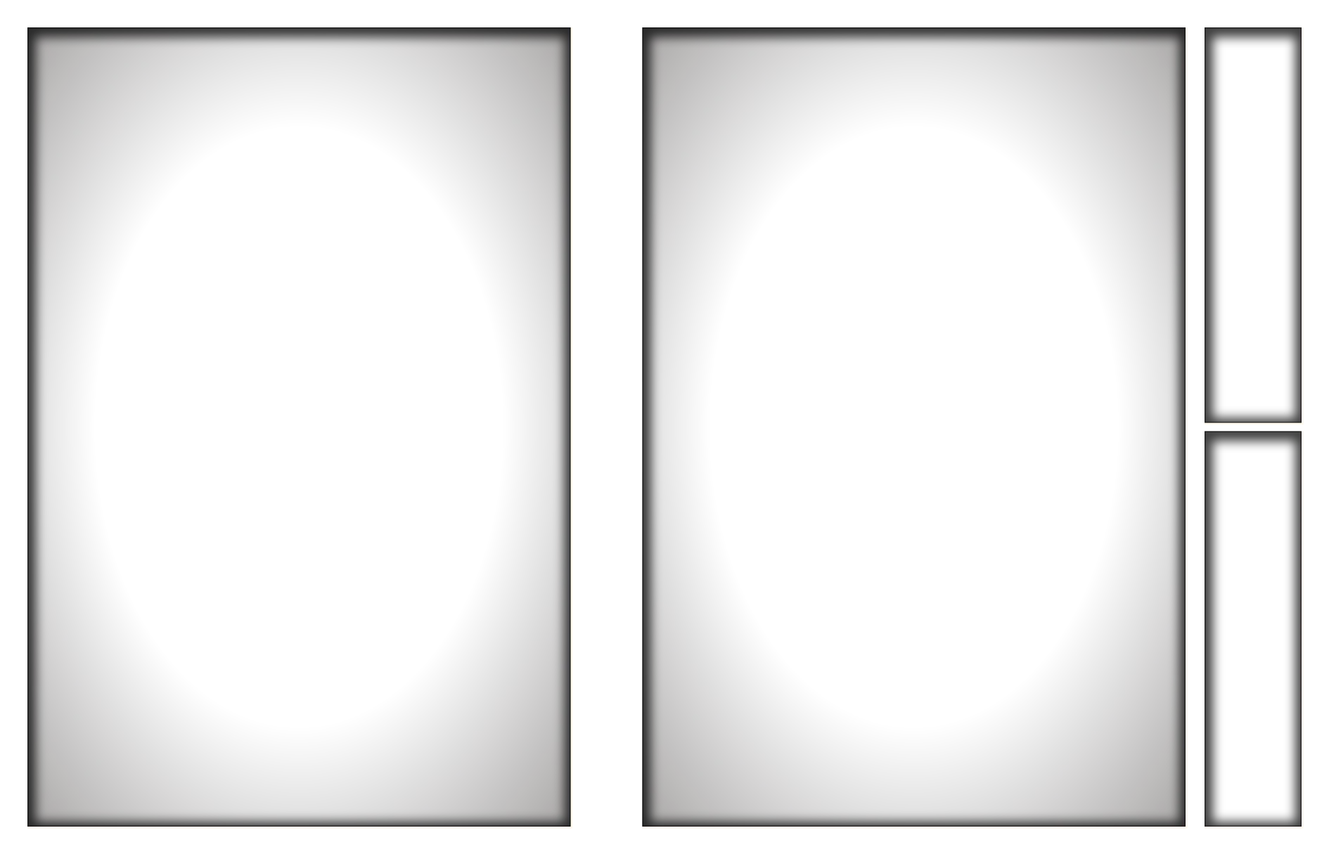
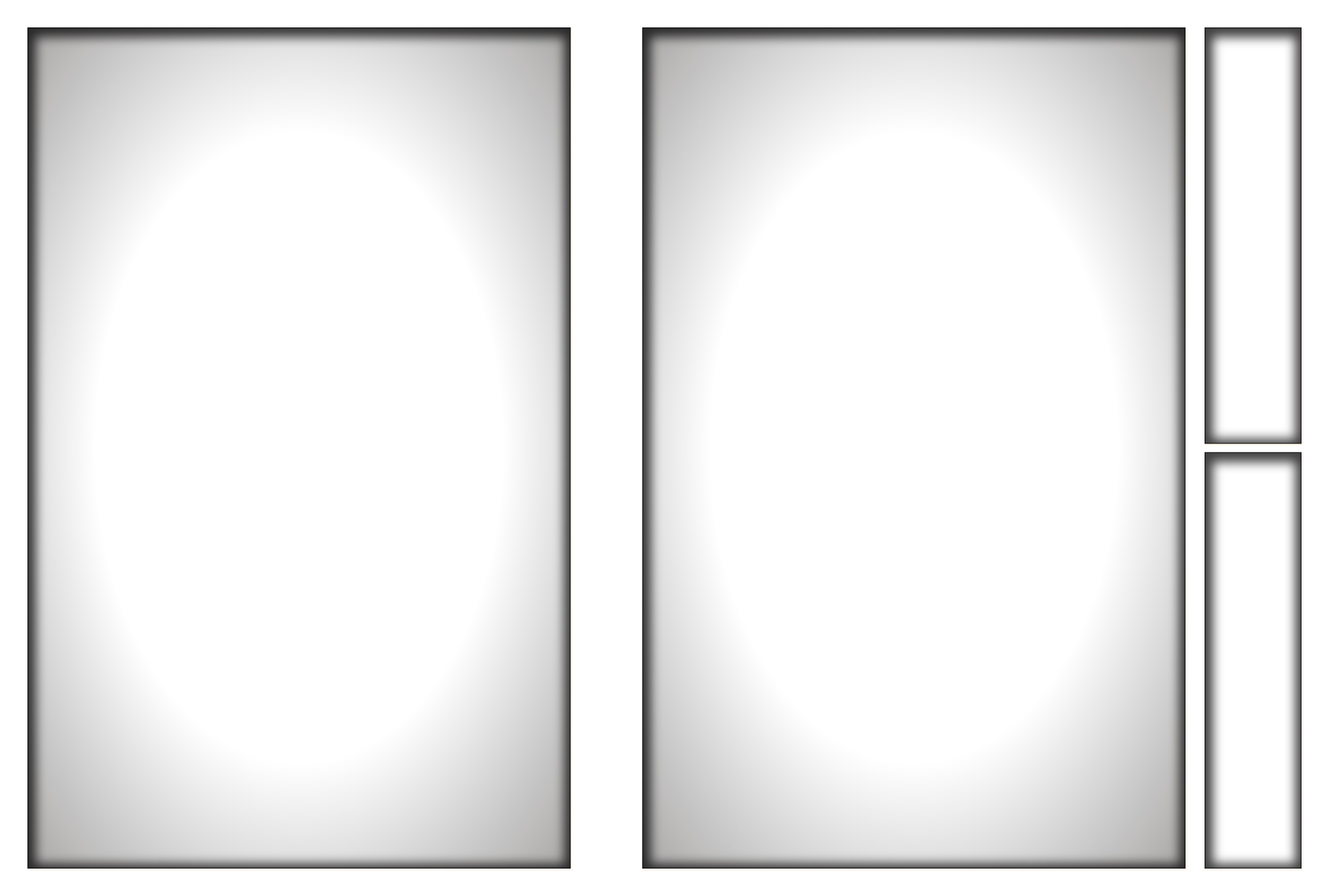
feat: a taller deep board and a side rail for the tall board on the Duo (#659)
- The deep board for the open Duo is 630 x 425 pt (was 405), so it
  fills the height above the home bar. Art rebuilt for all three themes.
- On the closed Duo, the Tall layout puts the round buttons on the rail
  in the camera column, so the tall board gets the button row's height.

diff --git a/apps/mobile/src/features/game/GameScreen.tsx b/apps/mobile/src/features/game/GameScreen.tsx
@@ -21,6 +21,8 @@
  * iPhone Duo) keeps the portrait top row (menu, seats, score), draws the
  * deep board under it, and puts the round buttons on the right rail as in
  * landscape. The rail starts under the top row (`leadHeight`).
+ * The tall board on the closed iPhone Duo puts its buttons on the same
+ * rail, in the camera column under the clock (`sideRail`).
  *
  * Landscape (#185): when the phone lies on its side, the whole screen turns
  * with it (`useScreenLayout`). The classic board sits in the middle and
@@ -458,12 +460,15 @@ export function GameScreen({
   const tall = layout === 'tall';
   // The iPhone Duo keeps its camera in a column on the right (inset 84 pt,
   // top inset 0, on both screens). Under the clock that column is empty, so
-  // the classic board and the rows rail use it; only the top row keeps clear
-  // of it (#659). The tall board starts at the top, so it keeps the inset.
-  const cameraColumn =
-    !landscape && !tall && rt.insets.top === 0 && rt.insets.right > 0 ? rt.insets.right : 0;
-  // Landscape and rows put the round buttons on a rail: rail sizes.
-  const railLayout = landscape || rows;
+  // the classic board and the button rail use it; only the top row keeps
+  // clear of it (#659).
+  const duoColumn = !landscape && rt.insets.top === 0 && rt.insets.right > 0;
+  const cameraColumn = duoColumn ? rt.insets.right : 0;
+  // Rows, and the tall board on the closed Duo, put the round buttons on a
+  // rail in that column, so the board gets the height of the button row.
+  const sideRail = rows || (tall && duoColumn);
+  // Landscape and the side rail use the rail button sizes.
+  const railLayout = landscape || sideRail;
 
   const view = useMemo(() => turnView(flow), [flow]);
   const { game, phase } = view;
@@ -2433,7 +2438,7 @@ export function GameScreen({
     lead = (
       <View
         style={styles.lead(rows, cameraColumn)}
-        onLayout={rows ? (e) => setLeadHeight(e.nativeEvent.layout.height) : undefined}>
+        onLayout={sideRail ? (e) => setLeadHeight(e.nativeEvent.layout.height) : undefined}>
         <View style={styles.topRow(rows)}>
           {menuButton}
           {strip(viewer, 'strip-bottom')}
@@ -2451,15 +2456,17 @@ export function GameScreen({
   // circle, the hint. Both keep their size in every state, so the board
   // never moves. In portrait the main circle sits in the middle of the screen.
   const trail =
-    landscape || rows ? (
-      // Scrolls when a large font makes the rail taller than the screen. In
-      // rows it sits on the right, under the top row (#659).
+    landscape || sideRail ? (
+      // Scrolls when a large font makes the rail taller than the screen. The
+      // side rail sits on the right, under the top row (#659).
       <ScrollView
         testID="game-right"
         style={
-          rows ? styles.rowsRail(rails.right, leadHeight, cameraColumn) : styles.rail(rails.right)
+          sideRail
+            ? styles.rowsRail(rails.right, leadHeight, cameraColumn)
+            : styles.rail(rails.right)
         }
-        contentContainerStyle={styles.railButtons(rows)}
+        contentContainerStyle={styles.railButtons(sideRail)}
         alwaysBounceVertical={false}>
         {undoButton ?? <View style={styles.railSlot(true)} />}
         {/* The main place is as tall as Roll with its subtitle in every state,
@@ -2528,10 +2535,10 @@ export function GameScreen({
           <View
             testID="game-middle"
             style={
-              tall
-                ? styles.boardArea
-                : rows
-                  ? styles.middleBesideRail(Math.max(rails.right, cameraColumn))
+              sideRail
+                ? styles.middleBesideRail(Math.max(rails.right, cameraColumn))
+                : tall
+                  ? styles.boardArea
                   : styles.middle
             }
             collapsable={false}
@@ -2555,11 +2562,11 @@ export function GameScreen({
               }}>
               {boardLayer}
             </View>
-            {landscape || rows ? moveList : null}
+            {landscape || sideRail ? moveList : null}
             {hints}
             {cardOverlay ?? inlay}
           </View>
-          {landscape || rows ? null : moveList}
+          {landscape || sideRail ? null : moveList}
           {trail}
         </View>
       </GestureDetector>

diff --git a/CLAUDE.md b/CLAUDE.md
@@ -78,7 +78,7 @@
 - One checker with several dice (#180): the board's "2+3" targets come from `flowPaths` (`features/board/combined.ts`), which plays each step with the engine's `applyGameAction`. Never add a rule check there. `InteractiveBoard` lights them only with `paths` and `onSteps` (the tutorial passes neither). One Undo takes a combined move back whole through `features/game/moveGroups.ts`; the engine still sees single moves.
 - Home (#342): a hero card (`features/home/HomeHero.tsx`, a `StaticBoard` in the classic layout) shows the next thing to do, picked by `pickHero` (`heroPick.ts`, #517): your-turn online game, friend invite to you, other online game, saved game, Play ranked for a ranked regular (`lastModes.ts`, the last three match modes on the phone only; a new way to start a match calls `lastModes.record`), else Play vs bot. Under it: Learn to play, the reminder, **Your games** (the saved row, then online games minus the hero's), the invites, then "More ways to play" (always that title). The other modes are `ModeTile`s, then Friends and Leaderboards tiles and, above them, the friend invites to you (`HomeFriendInvites`, #486). Play ranked is a wide tile first; for a saved account it shows the rating and Friends the friend requests (`useTileNews.ts`, only when `hasOnlineAccount()`, a failed load keeps the plain line; never send them to analytics or logs). Join with a code, How to play and History are one list under the tiles (`HomeLinks`), and it and the Learn to play banner use the tiles' look (`tileSurface` in `ModeTile.tsx`, `HomeBanner` tier `tile`; #517). Icons are Lucide path data drawn with Skia (`components/Icon.tsx`, `components/icons.ts`): add a new icon's paths there and its name to `docs/design/style/LICENSES.md`; never add an icon package. Theme colors stay opaque `#RRGGBB` (`themes.test.ts`): add a blended token (like `accentWash`) instead of 8-digit hex, or use `withAlpha` (`@tavli/ui`) for shadows.
 - Problems (#462): a failed action shows `ProblemDialog`, or `ProblemCard` in place of a sheet's content when a sheet is open (iOS shows no second `Modal`); a problem with typed text shows `FieldProblem` under the field (`components/Problem.tsx`). Never show a problem as plain body text, and never say "check the connection" unless the error is `NETWORK`: a new `AuthErrorCode` or server code gets its own text. A kind of sign-in key that is off on the server answers `KEY_OFF`.
-- Screens around the board use the shared parts in the Home style (#356): `Screen`, `ScreenHeader`, `RoundButton`, `SectionCard` / `SectionRow`, and the restyled `ActionButton`, `SegmentedControl`, `OptionList` and `ToggleRow` (all in `apps/mobile/src/components/`). See "Shared screen parts" in `docs/architecture/app-shell.md` for when to use each; reuse them and do not copy their styles into a screen. `Screen` pads the top, left and right safe areas, not the bottom. Every screen root that does not use `Screen` pads `rt.insets.left` and `rt.insets.right` too: an iPhone Duo gives a right inset of 84 pt for its camera column (top inset 0), on both of its screens. The game screen is the one exception: on the Duo (top inset 0) in Classic and rows, only its top row pads that column, and the board (Classic) or the button rail (rows) fills it under the clock (#659). The main button's gradient uses the `accentLight` theme color.
+- Screens around the board use the shared parts in the Home style (#356): `Screen`, `ScreenHeader`, `RoundButton`, `SectionCard` / `SectionRow`, and the restyled `ActionButton`, `SegmentedControl`, `OptionList` and `ToggleRow` (all in `apps/mobile/src/components/`). See "Shared screen parts" in `docs/architecture/app-shell.md` for when to use each; reuse them and do not copy their styles into a screen. `Screen` pads the top, left and right safe areas, not the bottom. Every screen root that does not use `Screen` pads `rt.insets.left` and `rt.insets.right` too: an iPhone Duo gives a right inset of 84 pt for its camera column (top inset 0), on both of its screens. The game screen is the one exception: on the Duo (top inset 0) in Classic and rows, only its top row pads that column, and the board (Classic) or the button rail (rows, and Tall on the closed Duo) fills it under the clock (#659). The main button's gradient uses the `accentLight` theme color.
 - Theme images need a literal `require` in `apps/mobile/src/features/board/themeImages.ts`. A test fails if one is missing.
 - `pnpm --filter @tavli/mobile screenshots` renders board PNGs headless (CanvasKit) into `apps/mobile/docs/screenshots/`. Node-only tools in `apps/mobile/tools/` have their own `tsconfig.json`; the app tsconfig leaves them out.
 - Never put tests (or any non-route file) in `apps/mobile/src/app/`: Expo Router treats every file there as a route. Route tests live in `apps/mobile/src/navigation.test.tsx` and use `renderRouter('./src/app')`. That file mocks `expo-router/build/testing-library/mocks`, because the library's own Reanimated mock replaces ours.
@@ -88,7 +88,7 @@
 - We use CNG: `apps/mobile/ios` and `android` are generated and ignored. Never commit them. Build profiles live in `apps/mobile/eas.json`; how to run the app is in `docs/process/running-the-app.md`.
 - The tutorial (`apps/mobile/src/features/tutorial/`, #128) plays fixed positions with fixed dice and only filters the engine's legal moves per lesson (`lessonMoves`). Never add a rule check there. Lessons open from How to play (#571: `/rules` lists the games, each game page has a lessons card on top, then the rules; Settings has no Learn to play row any more), and Home's Learn to play card for new players. Progress per game is the status plus `learnt` (lessons done in a row, `learn(game, step)`); Continue opens `tutorialHref(from, game, start)`. Lesson sets are per game (`LESSON_SETS`: Portes, Plakoto, Fevga, #149; Asodio, #159); each lesson plays in its game's default preset (`lessonRules`, from `DEFAULT_PRESET_BY_GAME`), and lesson ids are unique over all games (they name the strings and the analytics). The Portes status keeps the storage key `tutorial`; the others use `tutorial.<game>`. A new lesson set needs `TutorialGame` (contracts), `TUTORIAL_GAMES` (`features/match/routes.ts`, also the How to play hub), the `variants` of `progress.ts`, and the privacy policy's game list. `apps/mobile/test/tutorialTaps.ts` plays a lesson with taps in screen tests (`playLessonByTaps(index, game)`).
 - A Skia canvas must keep its native parent: on iOS a canvas that moves loses its drawing (#173). A `View` that turns `accessibilityElementsHidden`, `importantForAccessibility`, `pointerEvents`, `opacity` and the like on and off needs `collapsable={false}`, or React Native moves its children between native views. `apps/mobile/test/nativeParent.ts` checks this in Jest.
-- Only the game and tutorial routes turn with the phone (#185): the `orientation` options in `apps/mobile/src/app/_layout.tsx` (`app.json` allows every orientation). A new route stays upright. Those two screens pick their layout from the window (`useScreenLayout`, `features/board/screenLayout.ts`) and keep the board at the same place in the React tree in every layout, so turning the phone never remounts the board, the dice or a card. Anything placed from the measured board (the dice) waits for a geometry measured for the current `spaceKey`; never draw a child outside its parent (Android may clip it). A `Sheet` over them needs `turns` (iOS `Modal` orientations). `apps/mobile/test/window.ts` turns the phone in Jest (`setWindow`, then `resetWindow` in `afterEach`). On its side the game screen draws the wide board (`boardModeOf` → `wide`, the `landscape-wide` theme layout, #611); every theme builds four layouts (`geometries()` in its `design.mjs`). A landscape window under `ROWS_MAX_RATIO` (1.6 : 1, the open iPhone Duo) is the `rows` layout instead (#649, #659): the portrait top row over the deep board (`boardModeOf` → `deep`, the `landscape-deep` layout, 630 × 405 pt), and the buttons on a rail in the right inset (the Duo's empty camera column under the clock); the tutorial keeps the rails there. Home has two columns from `TWO_COLUMNS_MIN_WIDTH` (800 pt usable), each with an exact `width` (#655: with only `flex: 1`, a column kept the closed fold's size after the Duo opened). Check a layout change on the Duo after a close and an open, not only after a fresh start. Unistyles stays on 3.8 or later: 3.6 could put the old screen size and insets back after a fold or a rotation (Unistyles #1347). iOS gives the same inset on both sides in landscape, so the game screen keeps it only on the island side (`useIslandSide`, `islandSide.ts`, from `expo-screen-orientation`; Jest's mock is `test/screenOrientationMock.ts`, `setOrientation`).
+- Only the game and tutorial routes turn with the phone (#185): the `orientation` options in `apps/mobile/src/app/_layout.tsx` (`app.json` allows every orientation). A new route stays upright. Those two screens pick their layout from the window (`useScreenLayout`, `features/board/screenLayout.ts`) and keep the board at the same place in the React tree in every layout, so turning the phone never remounts the board, the dice or a card. Anything placed from the measured board (the dice) waits for a geometry measured for the current `spaceKey`; never draw a child outside its parent (Android may clip it). A `Sheet` over them needs `turns` (iOS `Modal` orientations). `apps/mobile/test/window.ts` turns the phone in Jest (`setWindow`, then `resetWindow` in `afterEach`). On its side the game screen draws the wide board (`boardModeOf` → `wide`, the `landscape-wide` theme layout, #611); every theme builds four layouts (`geometries()` in its `design.mjs`). A landscape window under `ROWS_MAX_RATIO` (1.6 : 1, the open iPhone Duo) is the `rows` layout instead (#649, #659): the portrait top row over the deep board (`boardModeOf` → `deep`, the `landscape-deep` layout, 630 × 425 pt), and the buttons on a rail in the right inset (the Duo's empty camera column under the clock); the tutorial keeps the rails there. Home has two columns from `TWO_COLUMNS_MIN_WIDTH` (800 pt usable), each with an exact `width` (#655: with only `flex: 1`, a column kept the closed fold's size after the Duo opened). Check a layout change on the Duo after a close and an open, not only after a fresh start. Unistyles stays on 3.8 or later: 3.6 could put the old screen size and insets back after a fold or a rotation (Unistyles #1347). iOS gives the same inset on both sides in landscape, so the game screen keeps it only on the island side (`useIslandSide`, `islandSide.ts`, from `expo-screen-orientation`; Jest's mock is `test/screenOrientationMock.ts`, `setOrientation`).
 - Screen reader users play through the move list (`apps/mobile/src/features/accessibility/`, #134), not the Skia board. A new board action needs a button there too. Announce game events with `useAnnouncement` (both platforms), not `accessibilityLiveRegion` (Android only), and check `features/game/announcements.ts` first so nothing is read twice. A keyed event is read once per app run (#216), so the key must name the event for the whole run: put the game store's `matchKey` in it. `apps/mobile/test/afterEnv.ts` resets that store before each test. Text must not get `numberOfLines` or a fixed-height box: `textScaling.test.tsx` checks Home, New game, the game screen, the end screens, History and the end of the tutorial mother lesson.
 - React Native Testing Library skips views hidden from screen readers (`importantForAccessibility="no-hide-descendants"`, e.g. the win `Celebration`). Pass `{ includeHiddenElements: true }` to find them. The game screen hides the board while a card covers it, and the whole screen under the game-end sheet, the menu and the resign dialogs (#153), so a test that lays out `game-board` or reads the board label under a card needs it too.
 - A new card or sheet over the board must hide what it covers from screen readers, move focus to its title (`useFocusOnShow`, `features/accessibility/focus.ts`) and scroll with a large font (see `GameScreen.tsx`, #153).

diff --git a/docs/architecture/board-screen.md b/docs/architecture/board-screen.md
@@ -111,7 +111,7 @@ The owner's decision: only the **game screen** and the **tutorial board** turn w
 
 **Orientation.** `app.json` allows every orientation (`"orientation": "default"`), so a screen can turn. The root `Stack` locks every screen upright (`orientation: 'portrait_up'` in `screenOptions`, `src/app/_layout.tsx`); the game route and the tutorial route follow the phone (`orientation: 'default'`: portrait and both landscapes, never upside down on an iPhone). This is react-native-screens' per-screen orientation, the way the Expo docs recommend with Expo Router; no extra native module. The phone's own rotation lock still wins. The menu and the resign dialogs are a `Modal` (`Sheet`): on iOS a `Modal` turns the screen back to portrait unless it lists landscape, so the game's `Sheet` passes `turns` (`supportedOrientations`). Other sheets stay portrait only.
 
-**Layout choice.** `useScreenLayout` (`screenLayout.ts`) reads the window (`useWindowDimensions`): wider than tall is `landscape`, else the Board layout setting (`tall` or `classic`). A landscape window under `ROWS_MAX_RATIO` (1.6 : 1, the open iPhone Duo at 1.42 : 1) is `rows` instead (#649, Figma "37 · iPhone Duo · Simple"; #659): the portrait top row (menu, seats, score, game label) above the deep board, and the round buttons on a rail at the right, under the top row. The rail sits in the right inset (the Duo's 84 pt camera column, empty under the clock): the screen does not pad that column, the top row pads it instead, and the rail (`rowsRail`, at `right: 0`) fills it, so nothing draws outside its parent. Its buttons keep the landscape rail sizes and sit together around the main circle; the rail shows once the top row is measured. The top row keeps `xl` from the left edge when the left inset is 0, so the menu stays clear of the round corner. The deep board is the classic board made deeper (the `landscape-deep` theme layout, 630 × 405 pt): the points get longer, and the checkers, the bar and the trays keep their size; on the open Duo it fills the width between the edge and the rail. A phone on its side (about 2.2 : 1, the iPhone SE 1.78 : 1) keeps the rails. Landscape always draws the wide board and rows the deep board (`boardModeOf` gives `wide` or `deep`, #611, #659), whatever the setting; turning back to portrait brings the setting back. The wide board is the classic board 10% longer (the `landscape-wide` theme layout, 693 × 377 pt): the extra length goes to the points, and the checkers, the bar and the trays keep their size. The upright classic board (Settings, Home, the review picture) keeps the `landscape` layout.
+**Layout choice.** `useScreenLayout` (`screenLayout.ts`) reads the window (`useWindowDimensions`): wider than tall is `landscape`, else the Board layout setting (`tall` or `classic`). A landscape window under `ROWS_MAX_RATIO` (1.6 : 1, the open iPhone Duo at 1.42 : 1) is `rows` instead (#649, Figma "37 · iPhone Duo · Simple"; #659): the portrait top row (menu, seats, score, game label) above the deep board, and the round buttons on a rail at the right, under the top row. The rail sits in the right inset (the Duo's 84 pt camera column, empty under the clock): the screen does not pad that column, the top row pads it instead, and the rail (`rowsRail`, at `right: 0`) fills it, so nothing draws outside its parent. Its buttons keep the landscape rail sizes and sit together around the main circle; the rail shows once the top row is measured. The top row keeps `xl` from the left edge when the left inset is 0, so the menu stays clear of the round corner. The deep board is the classic board made deeper (the `landscape-deep` theme layout, 630 × 425 pt): the points get longer, and the checkers, the bar and the trays keep their size; on the open Duo it fills the width between the edge and the rail. A phone on its side (about 2.2 : 1, the iPhone SE 1.78 : 1) keeps the rails. Landscape always draws the wide board and rows the deep board (`boardModeOf` gives `wide` or `deep`, #611, #659), whatever the setting; turning back to portrait brings the setting back. The wide board is the classic board 10% longer (the `landscape-wide` theme layout, 693 × 377 pt): the extra length goes to the points, and the checkers, the bar and the trays keep their size. The upright classic board (Settings, Home, the review picture) keeps the `landscape` layout.
 
 | Part                          | Landscape                                                                                                                                                                                                                                                                                                                                                                                                                                                                                                                                                                                          |
 | ----------------------------- | -------------------------------------------------------------------------------------------------------------------------------------------------------------------------------------------------------------------------------------------------------------------------------------------------------------------------------------------------------------------------------------------------------------------------------------------------------------------------------------------------------------------------------------------------------------------------------------------------- |
@@ -120,7 +120,7 @@ The owner's decision: only the **game screen** and the **tutorial board** turn w
 | Right rail (`game-right`) | the round buttons in the portrait order, top to bottom: Undo (48 pt; Fast forward in a race), the main circle (Roll with "or swipe the board" under it, then Confirm) under the right thumb, the hint (48 pt, with Undo and Confirm only; a dim circle when it cannot be used, #619). An empty Undo or hint keeps its place (`railSlot`, and the hint's empty place keeps room for its label with a large font), and the main place (`rail-main`) is as tall as Roll with its subtitle in every state, so the buttons never move. While the bot plays, its text ("Bot rolled 4-3 and is moving…") sits in the main place and its seat says "Playing". |
 | Rail width | per app language (`RAIL_WIDTHS`): 66 pt each in English (a few points to spare for another font), 84 pt (left) and 80 pt (right) in Greek, up to 1.35 times that with a large font (`railWidths`). Each width fits the longest one-word label of its rail, measured in the system font: English "Opponent" (13 pt, about 63 pt) and "Thinking…" (12 pt, about 62 pt), Greek "Υπολογιστής" (13 pt, about 82 pt) and "Επιβεβαίωση" (12 pt, about 78 pt). `screenLayout.test.ts` fails when a rail label gets a longer word. The language is part of `spaceKey`, so a language change measures the board again. |
 | Dice | on the board, in the theme's dice area, as in portrait (`boardDiceBox`); the throw glides into them (`settleTargets`). |
-| Safe areas | the screen keeps `insets.bottom` free and the inset on the side of the notch or Dynamic Island. iOS gives the same inset on both sides, so on iOS the other side keeps only `OPEN_SIDE_MARGIN` (16 pt, clear of the round corner; `sideMargins` and `useIslandSide` in `islandSide.ts`, from `expo-screen-orientation`, #611). With the side unknown, or with insets that differ (the iPhone Duo: left 0, right 84 pt for its camera column), both insets stay. Upright, the screen keeps both side insets too, except on the closed iPhone Duo (top inset 0, right inset 84 pt) in the Classic layout: there only the top row pads the camera column (`cameraColumn` in `GameScreen`), and the board below the clock runs to the right edge (#659). |
+| Safe areas | the screen keeps `insets.bottom` free and the inset on the side of the notch or Dynamic Island. iOS gives the same inset on both sides, so on iOS the other side keeps only `OPEN_SIDE_MARGIN` (16 pt, clear of the round corner; `sideMargins` and `useIslandSide` in `islandSide.ts`, from `expo-screen-orientation`, #611). With the side unknown, or with insets that differ (the iPhone Duo: left 0, right 84 pt for its camera column), both insets stay. Upright, the screen keeps both side insets too, except on the closed iPhone Duo (top inset 0, right inset 84 pt) in the Classic layout: there only the top row pads the camera column (`cameraColumn` in `GameScreen`), and the board below the clock runs to the right edge (#659). In the Tall layout there, the round buttons go on the rows rail in that column (`sideRail`), so the tall board also gets the height of the button row. |
 | Cards (opening, pass, mother) | over the board, between the rails; they scroll when they are taller than the screen |
 | Game-end sheet, menu, dialogs | at most `MAX_SHEET_WIDTH` (560 pt) wide, in the middle; they scroll                                                                                                                                                                                                                                                                                                                                                                                                                                                                                                                                |
 | Move list                     | under the board                                                                                                                                                                                                                                                                                                                                                                                                                                                                                                                                                                                    |

diff --git a/packages/themes/README.md b/packages/themes/README.md
@@ -98,7 +98,7 @@ Point numbers are from the view of the player at the **bottom** of the screen. T
 | `portrait-rotated` (default) | 377 × 630 pt | bottom-left  | bottom edge | Phone in portrait (wireframe option B) |
 | `landscape`                  | 630 × 377 pt | bottom-right | right edge  | The classic board, phone upright       |
 | `landscape-wide`             | 693 × 377 pt | bottom-right | right edge  | Phone on its side (#611): wider points |
-| `landscape-deep`             | 630 × 405 pt | bottom-right | right edge  | The open iPhone Duo (#659): deeper     |
+| `landscape-deep`             | 630 × 425 pt | bottom-right | right edge  | The open iPhone Duo (#659): deeper     |
 
 Portrait order: the left column holds 12 → 7, the bar, then 6 → 1. The right column holds 13 → 18, the bar, then 19 → 24.
 
